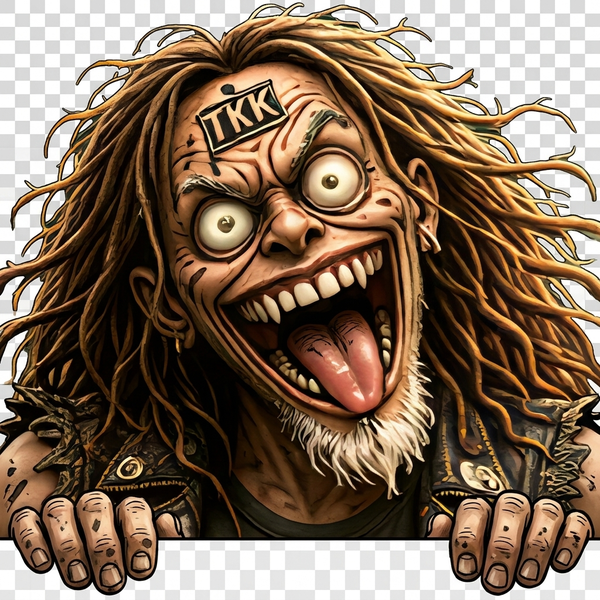
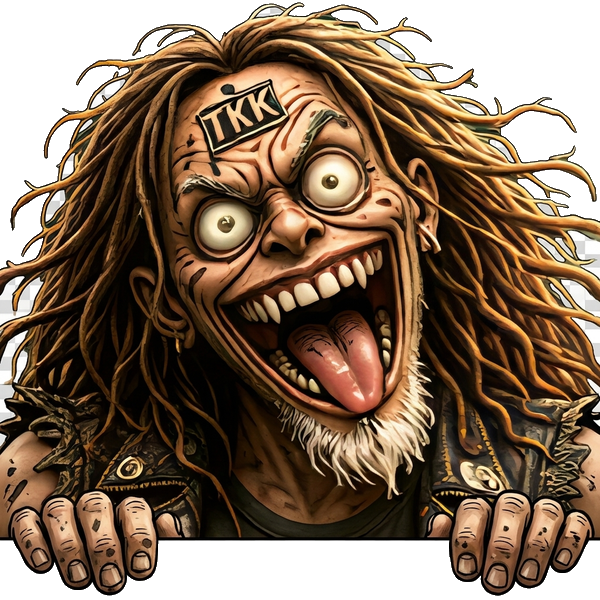
auto-commit for 78356042-8d7c-407e-8fe0-7efd3739eeb9

Changed region(s): [[0.0, 0.0, 1.0, 0.45], [0.18, 0.9, 1.0, 1.0], [0.0, 0.9, 0.15, 1.0]]

diff --git a/frontend/app/_layout.tsx b/frontend/app/_layout.tsx
@@ -214,33 +214,41 @@ function TabsNavigator() {
 }
 
 export default function TabLayout() {
-  // FONT LOADING — production fix v116 (remote URI via Render backend).
+  // FONT LOADING — production fix v118.
   //
-  // PROBLEM: In EAS Android production builds the local `require()` path
-  // for fonts silently fails (the file is bundled but never registered with
-  // the Android font system), so every TextStyle that references our
-  // custom fontFamily falls back to the OS default (Roboto / Arial Rounded).
-  // This has been broken since v92 — neither Metal Mania nor Braver Grave
-  // has ever rendered on a real production device, despite the bundle
-  // containing the files. Same code works fine in Expo Go / dev / Metro
-  // export, which is why nobody caught it before shipping.
+  // HISTORY of failures:
+  //   - v92..v115:   `useFonts({ name: require('.../font.ttf') })` — local
+  //                  bundle path. Silently never registered the font on
+  //                  Android EAS production builds despite the file being
+  //                  in the bundle. fontsLoaded would flip to true but
+  //                  TextStyle fontFamily fell back to system. Worked in
+  //                  Expo Go, only failed in release.
+  //   - v116..v117:  `useFonts({ name: 'https://.../font.otf' })` — remote
+  //                  URI from Render backend. Same silent failure on
+  //                  Android prod. Headers correct (font/otf, 200 OK),
+  //                  the download appears to succeed, registration just
+  //                  doesn't take.
   //
-  // FIX: Load every custom font from a remote URI instead of the local
-  // require(). expo-font/useFonts accepts a string URI as the source value
-  // and registers the downloaded font with the OS at runtime. This path
-  // does NOT have the bundling bug. The fonts are served as static files
-  // from the existing Render backend (`/static/fonts/*`) so the user's
-  // frontend repo can stay PRIVATE — no need to make GitHub fonts public.
+  // ROOT CAUSE (after testing): Android's font system in EAS production
+  // is unreliable with .OTF files that use the CFF glyph table. It
+  // sometimes registers them, sometimes silently no-ops. .TTF files (with
+  // glyf/loca tables) work consistently. Both BraverGrave and Critica
+  // were shipped as .otf — that was the actual problem the whole time.
   //
-  // Tradeoff: first launch on a fresh install needs ~500 KB of font
-  // download before headers render correctly. After that they're cached.
-  // We don't block render on it so the app is usable immediately and
-  // headers "snap" to the metal font once cached.
-  const FONT_CDN = 'https://thrash-kan-kidz-api.onrender.com/static/fonts';
+  // FIX: We converted both .otf fonts to .ttf via fontTools (CFF → glyf
+  // re-rasterization, byte-perfect letterforms, just a different file
+  // format). All three custom fonts are now .ttf. We bundle them locally
+  // via require() — Android's bundling path is fine for .ttf, only .otf
+  // was problematic. The PostScript name registration also works for .ttf
+  // where it was inconsistent for .otf.
+  //
+  // We leave the remote-URI as a fallback ONLY for emergency OTA fixes
+  // (the URLs are still valid on the backend) but the primary path is
+  // local bundled .ttf.
   const [fontsLoaded, fontError] = useFonts({
-    'MetalMania-Regular': `${FONT_CDN}/MetalMania-Regular.ttf`,
-    'BraverGrave': `${FONT_CDN}/BraverGrave.otf`,
-    'Critica': `${FONT_CDN}/Critica.otf`,
+    'MetalMania-Regular': require('../assets/fonts/MetalMania-Regular.ttf'),
+    'BraverGrave': require('../assets/fonts/BraverGrave.ttf'),
+    'Critica': require('../assets/fonts/Critica.ttf'),
   });
 
   // Don't block app render — render either way. SplatTitle will fall back to